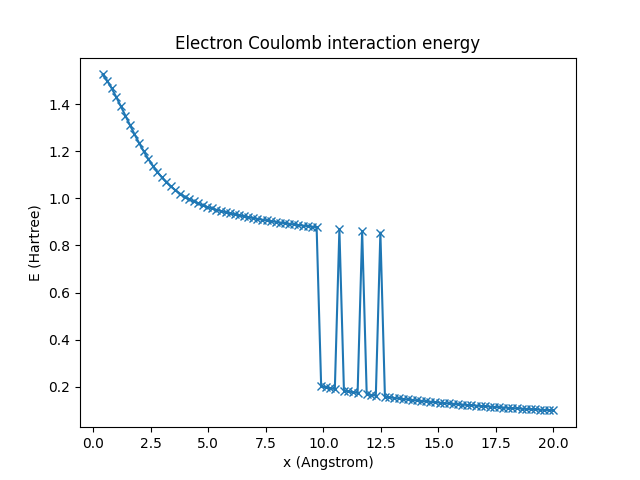
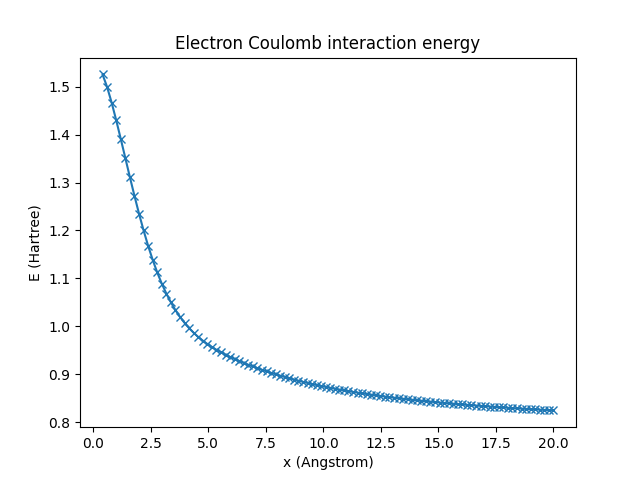
working but energy to high

diff --git a/examples/dft/H2_RHF_STO3G_becke.py b/examples/dft/H2_RHF_STO3G_becke.py
@@ -42,8 +42,6 @@ class Orbital:
         for i in range(n):
             y += coeff[i]*basis[i](X)
 
-#        basisX = np.stack([b(X).flatten() for b in basis],axis=1)
-#        y = np.einsum('m,nm',coeff,basisX)
         return y.reshape(-1,1)
 
 #############################################
@@ -231,7 +229,7 @@ def Coulomb(Vee,P):
     Vcoulomb = np.einsum('ijkl,kl->ij',Vee,P) 
     return Vcoulomb
 
-def density(rho,orbitals,P,S):
+def density(rho,orbitals,P,S,BB):
     """computing density at each points of discretized grid
 
     X : Points where to compute density
@@ -251,16 +249,12 @@ def density(rho,orbitals,P,S):
             # 1 -> 2
             # centering integrals at center of cell 1
             Dx = X_cartesian_int + R1
-            B = np.hstack([orbital(Dx) for orbital in orbitals])
-            BB = np.einsum('ni,nj->nij',B,B)
-            rho[ii,jj,0] = np.einsum('ij,nij->n',P,BB).reshape(-1,1) 
+            rho[ii,jj,0] = np.einsum('ij,nij->n',P,BB[ii,jj,0]).reshape(-1,1) 
 
             # 2 -> 1
             # centering integrals at center of cell2
             Dx = X_cartesian_int + R2
-            B = np.hstack([orbital(Dx) for orbital in orbitals])
-            BB = np.einsum('ni,nj->nij',B,B)
-            rho[ii,jj,1] = np.einsum('ij,nij->n',P,BB).reshape(-1,1) 
+            rho[ii,jj,1] = np.einsum('ij,nij->n',P,BB[ii,jj,1]).reshape(-1,1) 
 
     # L1-normalization the density with Density and Overlap matrices
     norm = np.einsum('ij,ij',P,S)
@@ -274,25 +268,24 @@ def LDA(orbitals,rho):
     S : overlap matrix
     """
     n = len(orbitals)
-    Vc = 0.0
-    Vx = np.zeros([n,n])
+    Vxc = np.zeros([n,n])
 
     # storing values of exchange-correlation function evaluated at 
     # quadrature points centered at each fuzz cell centers
-    Vx_X = np.empty([n,n,2,len(X_cartesian_int),1])
+    Vxc_X = np.empty([n,n,2,len(X_cartesian_int),1])
 
     # computing volumic functionnal potential beforehand
     for ii in range(n):
         for jj in range(ii+1,n):
             # 1 -> 2
             # centering integrals at center of cell 1
-            vx_X = vxc(rho[ii,jj,0])
-            Vx_X[ii,jj,0] = vx_X
+            vxc_X = vxc(rho[ii,jj,0])
+            Vxc_X[ii,jj,0] = vxc_X
 
             # 2 -> 1
             # centering integrals at center of cell2
-            vx_X = vxc(rho[ii,jj,1])
-            Vx_X[ii,jj,1] = vx_X
+            vxc_X = vxc(rho[ii,jj,1])
+            Vxc_X[ii,jj,1] = vxc_X
 
     # loop over AO
     for i in range(n):
@@ -310,29 +303,29 @@ def LDA(orbitals,rho):
                     R2 = orbitals[jj].x
 
                     # 1 -> 2
-                    vx_X = Vx_X[ii,jj,0]
+                    vxc_X = Vxc_X[ii,jj,0]
                     # centering integrals
                     Dxx = X_cartesian_int + R1
                     # fuzzy cell weight function centered at 1
                     wcell, _ = normalized_cell_functions(Dxx,R1,R2)
                     # Chebyshev + Lebedenev quadrature + variable substitution for radial component (R/Mu)
-                    Vx[i,j] += 4.0*pi*np.einsum(
+                    Vxc[i,j] += 4.0*pi*np.einsum(
                         'ij,ij',
-                        wcell*orbital_i(Dxx)*orbital_j(Dxx)*vx_X*subs,
+                        wcell*orbital_i(Dxx)*orbital_j(Dxx)*vxc_X*subs,
                         Wint
                     )
 
                     # 2 -> 1
-                    vx_X = Vx_X[ii,jj,1]
+                    vxc_X = Vxc_X[ii,jj,1]
                     Dxx = X_cartesian_int + R2
                     _, wcell = normalized_cell_functions(Dxx,R1,R2)
-                    Vx[i,j] += 4.0*pi*np.einsum(
+                    Vxc[i,j] += 4.0*pi*np.einsum(
                         'ij,ij',
-                        wcell*orbital_i(Dxx)*orbital_j(Dxx)*vx_X*subs,
+                        wcell*orbital_i(Dxx)*orbital_j(Dxx)*vxc_X*subs,
                         Wint
                     )
 
-    return Vx,Vc
+    return Vxc
 
 
 def density_matrix(c):
@@ -340,18 +333,64 @@ def density_matrix(c):
     c = c[:,0:1]
     return  2.0 * c@c.T
 
-
-def vxc(rho):
-    """volumic LDA-functionnal"""
-    vx = -(3.0*rho/pi)**(1/3)
-    vc = 0.0
-    return vx + vc
+# Vosko, Wilk, Nusair correlation constants
+A = 0.0621814
+x0 = -0.409286
+b = 13.072
+c = 42.7198
+Q = (4*c-b**2)**0.5
+eps = 1e-6
+rinf = 1e6
 
 def exc(rho):
     """volumic exchance-correlation energy"""
-    ex = -(3.0/4.0)*(3.0/pi*rho)**(1/3)
-    ec = 0.0
+    # Dirac exchange
+    ex  = -(3.0/4.0)*(3.0/pi*rho)**(1/3)
+    ex *= 9.0/8.0
+    #ex = -(3.0)*(3.0/4.0/pi*rho)**(1.0/3.0)
+
+    # Vosko, Wilk, Nusair correlation
+    def X(arg):
+        return arg**2.0 + b*arg + c
+
+    rs = np.where(rho>eps,(3.0/(4.0*pi*(rho+1e-8)))**(1.0/3.0),rinf)
+    x  = np.sqrt(rs)
+    term1 = np.log(x**2/X(x))
+    term2 = 2*b/Q*np.arctan(Q/(2*x+b))
+    term3 = b*x0/X(x0)*(np.log((x-x0)**2/X(x)) + 2*(b+2*x0)/Q*np.arctan(Q/(2*x+b)) )
+
+    ec = A/2.0*(term1 + term2 - term3 )
     return ex + ec 
+
+def vxc(rho):
+    """volumic LDA-functionnal"""
+    # Dirac exchange
+    vx = -9.0/8.0*(3.0*rho/pi)**(1.0/3.0)
+    #vx = -4.0*(3.0/4.0*rho/pi)**(1.0/3.0)
+
+    # Vosko, Wilk, Nusair correlation
+    def X(arg):
+        return arg**2.0 + b*arg + c
+
+    rs = np.where(rho>eps,(3.0/(4.0*pi*(rho+1e-8)))**(1.0/3.0),rinf)
+    x  = np.sqrt(rs)
+    Xx = X(x)
+    term1 = np.log(x**2/Xx)
+    term2 = 2*b/Q*np.arctan(Q/(2*x+b))
+    term3 = b*x0/X(x0)*(np.log((x-x0)**2/Xx) + 2*(b+2*x0)/Q*np.arctan(Q/(2*x+b)) )
+
+    ec = A/2.0*(term1 + term2 - term3 )
+
+    term1 = (2*Xx-x*(2*x+b))/(Xx*x) 
+    term2 = -4*b/((2*x+b)**2 + Q**2) 
+    term31 = (2*Xx-(2*x+b)*(x-x0))/(Xx*(x-x0))
+    term32 = -4*(2*x0+b)/((2*x+b)**2 + Q**2)
+    term3 = b*x0/X(x0)*(term31 + term32) 
+    ec_rho = A/2.0*(term1 + term2 - term3 )
+
+    vc = rho*ec_rho + ec
+#    vc = 0.0
+    return vx + vc
 
 def energy(rho,orbitals,Hcore,Vcoulomb,P):
     """computing energy of the system
@@ -397,6 +436,29 @@ def scf_loop(orbitals,molecule,params):
     tol = params['tol']
     Niter = params['Niter']
     n = len(orbitals)
+    # damping constant
+    #alpha = 0.5
+
+    # values of product of the AO over space
+    BB = np.zeros([n,n,2,len(X_cartesian_int),n,n])
+    for ii in range(n):
+        for jj in range(ii+1,n):
+            # center of the first cell
+            R1 = orbitals[ii].x
+            # center of the secind cell
+            R2 = orbitals[jj].x
+
+            # 1 -> 2
+            # centering integrals at center of cell 1
+            Dx = X_cartesian_int + R1
+            B = np.hstack([orbital(Dx) for orbital in orbitals])
+            BB[ii,jj,0] = np.einsum('ni,nj->nij',B,B)
+
+            # 2 -> 1
+            # centering integrals at center of cell2
+            Dx = X_cartesian_int + R2
+            B = np.hstack([orbital(Dx) for orbital in orbitals])
+            BB[ii,jj,1] = np.einsum('ni,nj->nij',B,B)
 
     # density matrix
     #P = np.random.uniform(size=[n,n])
@@ -424,6 +486,7 @@ def scf_loop(orbitals,molecule,params):
     for _ in range(Niter):
 
         # save Energy from last iteration
+        #P_old = dcp(P)
         E_old = E
         
         # coulomb interactions
@@ -431,7 +494,7 @@ def scf_loop(orbitals,molecule,params):
 
         # exchange-correlation functionnal
         Vx, Vc = LDA(orbitals,rho)
-
+    
         # Fock operator 
         F = Hcore + Vcoulomb + Vx + Vc
 
@@ -442,10 +505,11 @@ def scf_loop(orbitals,molecule,params):
 
         # density matrix
         P = density_matrix(c)
+#        P = alpha*P + (1.0-alpha)*P_old
 
         # compute new density
         #rho = density(Xint,orbitals,P)
-        rho = density(rho,orbitals,P,S)
+        rho = density(rho,orbitals,P,S,BB)
 
         # compute energy
         Ecore , Ecoulomb , Exc = energy(rho,orbitals,Hcore,Vcoulomb,P)
@@ -462,7 +526,7 @@ def scf_loop(orbitals,molecule,params):
 ####################################
 # Quadrature weights/points
 # for radial component
-Nr = 100
+Nr = 50
 ii  = np.arange(1,Nr+1).reshape(-1,1) 
 sin_i = np.sin(ii*pi/(Nr+1))
 cos_i = np.cos(ii*pi/(Nr+1))
@@ -534,7 +598,7 @@ n = 100
 dlin = np.linspace(0.4,20,n)
 
 # parameters of the scp loop
-params = {'tol':1e-8,'Niter':200}
+params = {'tol':1e-6,'Niter':200}
 
 E_list = []
 Ecore_list = []
@@ -586,9 +650,6 @@ for i,d in enumerate(dlin):
     Epp_list.append(Epp)
 
     print(f"Opti {i+1}/{n} done!")
-#    print(f'intermolecular distance = {d} Angstrom')
-#    print(f'c = {c[:,0]}')
-    #print(f'eigenvalue = {eigval[0]}\n')
 
 #results = pstats.Stats(profile)
 #results.sort_stats(pstats.SortKey.TIME)
@@ -629,7 +690,7 @@ plt.title('Exchange energy')
 plt.plot(dlin,Exc_list,marker='x')
 plt.xlabel('x (Angstrom)')
 plt.ylabel('E (Hartree)')
-plt.savefig('Exc.png')
+plt.savefig('Exc_VWN.png')
 
 plt.figure(6)
 plt.title('Proton repulsion energy')

diff --git a/examples/dft/becke_partitionning.py b/examples/dft/becke_partitionning.py
@@ -33,33 +33,10 @@ def s(nu,k=3):
 
 def normalized_cell_functions(r,R1,R2,k=3):
     """cell function for diatomic systems"""
-    _, nu12 = confocal_elliptic_coordinates(r,R1,R2) 
-    _, nu21 = confocal_elliptic_coordinates(r,R2,R1) 
+    _, nu12 = confocal_elliptic_coordinates(r,R1,R2)
+    _, nu21 = confocal_elliptic_coordinates(r,R2,R1)
 
     s1 = s(nu12,k)
     s2 = s(nu21,k)
 
     return s1/(s1+s2), s2/(s1+s2)
-"""
-R1 = np.array([0.0, 0.0]).reshape(1,-1)
-R2 = np.array([1.0, 0.0]).reshape(1,-1)
-
-rlin = np.linspace(0.0,1.0)
-S1, S2, S12 = [], [], []
-for rr in rlin:
-    r = np.array([rr,1.0]).reshape(1,-1)
-
-    s1, s2 = normalized_cell_functions(r,R1,R2)
-    S1.append(s1.flatten())
-    S2.append(s2.flatten())
-    S12.append(s1.flatten()+s2.flatten())
-
-plt.plot(rlin,S1)
-plt.plot(rlin,S2)
-plt.plot(rlin,S12)
-plt.show()
-R = np.random.uniform(size=[5,3])
-R1 = np.array([0.0, 0.0, 0.0]).reshape(1,3)
-R2 = np.array([1.0, 0.0, 0.0]).reshape(1,3)
-print(confocal_elliptic_coordinates(R,R1,R2)[1].shape)
-#"""
